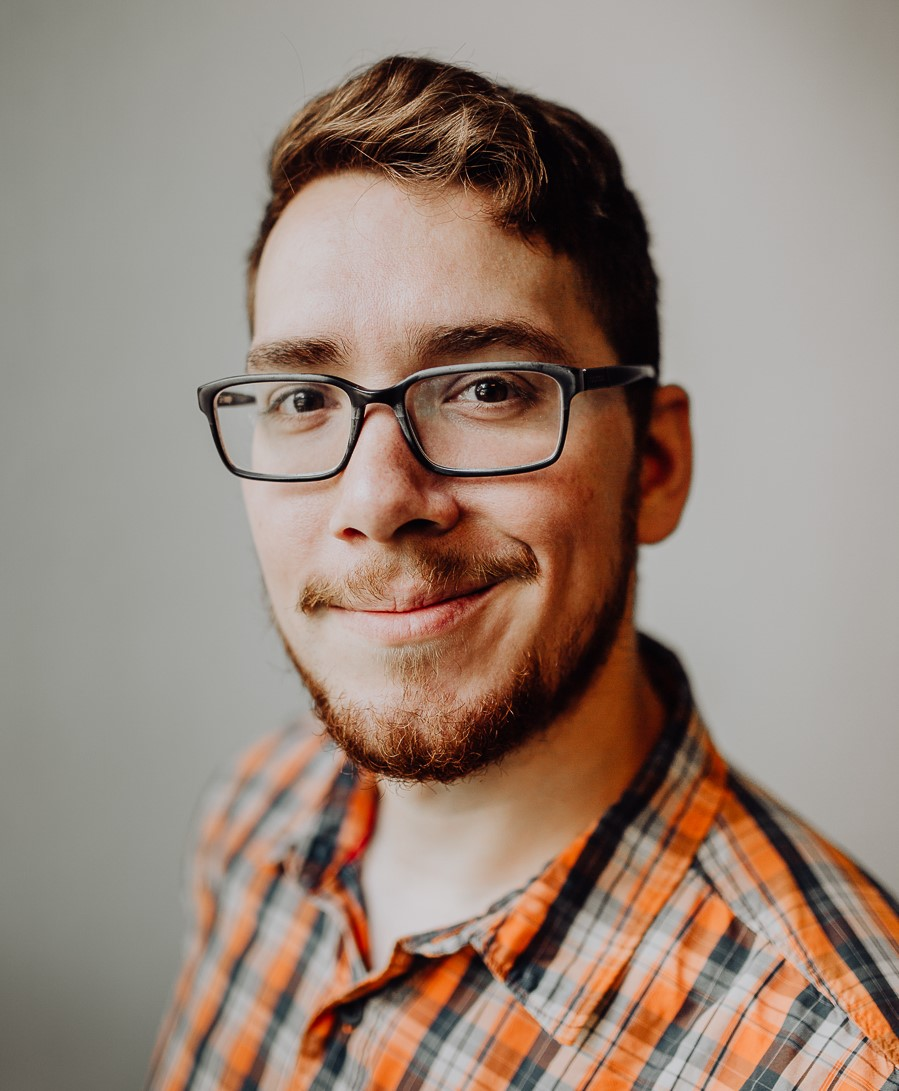
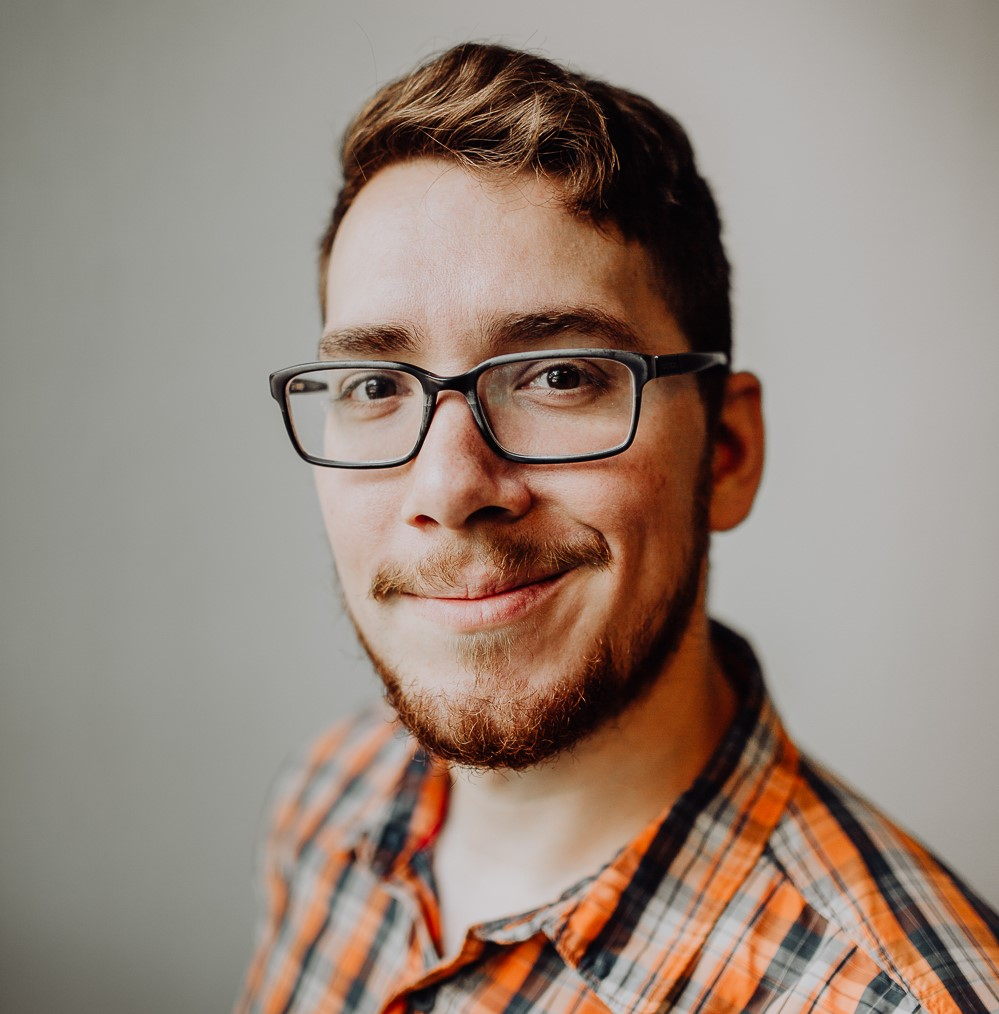
noticed that the dev bios were missing from the template, I added them back in and replaced my own picture with a square one so that my face wasn't getting squished.

diff --git a/public/app/components/explore/home/home.js b/public/app/components/explore/home/home.js
@@ -55,22 +55,22 @@ angular
                 <h3 class="developerName"><a class="devAnchor" href="https://www.linkedin.com/in/hannah-m-barker/"> Hannah Barker</a></h3>
                 <img  fallback-src="https://www.kargomaster.com/pub/media/catalog/product/placeholder/default/sorry-image-not-available.jpg" ng-src="app/assets/HannahPic.jpg" class="flex developerPic">
                 <!-- <img ng-src="https://upload.wikimedia.org/wikipedia/commons/thumb/e/e0/SNice.svg/1200px-SNice.svg.png" class="developerPic"> -->
-                <p class="developerBio">I'm super cool and I helped to develop this app!</p>
+                <p class="developerBio">Interior Designer turned Front End Web Developer. I enjoy all forms of design, and I focused on creating the graphic for this app along with the functionality for great user experience.</p>
             </div>
             <div class="devContainer">
                 <h3 class="developerName"><a class="devAnchor" href="https://www.linkedin.com/in/jessa-challa/"> Jessa Challa</a></h3>
                 <img fallback-src="https://www.kargomaster.com/pub/media/catalog/product/placeholder/default/sorry-image-not-available.jpg" ng-src="app/assets/JessaPic.jpg" class="flex developerPic">
-                <p class="developerBio">I'm super cool and I helped to develop this app!</p>
+                <p class="developerBio">I'm a front-end developer, GIS Specialist, and data visualizer. I loved making sure this app provided efficient access to data and maintained aesthetic integrity.</p>
             </div>
             <div class="devContainer">
                 <h3 class="developerName"><a class="devAnchor" href="https://www.linkedin.com/in/derek-denhartigh/"> Derek DenHartigh</a></h3>
                 <img fallback-src="https://www.kargomaster.com/pub/media/catalog/product/placeholder/default/sorry-image-not-available.jpg" ng-src="app/assets/DerekPic.jpg" class="flex developerPic">
-                <p class="developerBio">I'm super cool and I helped to develop this app!</p>
+                <p class="developerBio">I'm a former teacher and lab analyst who has recently converted to the tech field. For this project, I had the most fun wiring up the IBM Watson API and the currency conversion module.</p>
             </div>
             <div class="devContainer">
                 <h3 class="developerName"><a class="devAnchor" href="https://www.linkedin.com/in/dave-gillespie/"> Dave Gillespie</a></h3>
                 <img fallback-src="https://www.kargomaster.com/pub/media/catalog/product/placeholder/default/sorry-image-not-available.jpg" ng-src="app/assets/DavePic.jpg" class="flex developerPic">
-                <p class="developerBio">I'm super cool and I helped to develop this app!</p>
+                <p class="developerBio">I’m a logistics manager turned web developer. For this project, I liked working with the IBM Watson translate API and adding css/styling to the functionality.</p>
             </div>
         </div>
     </div>
